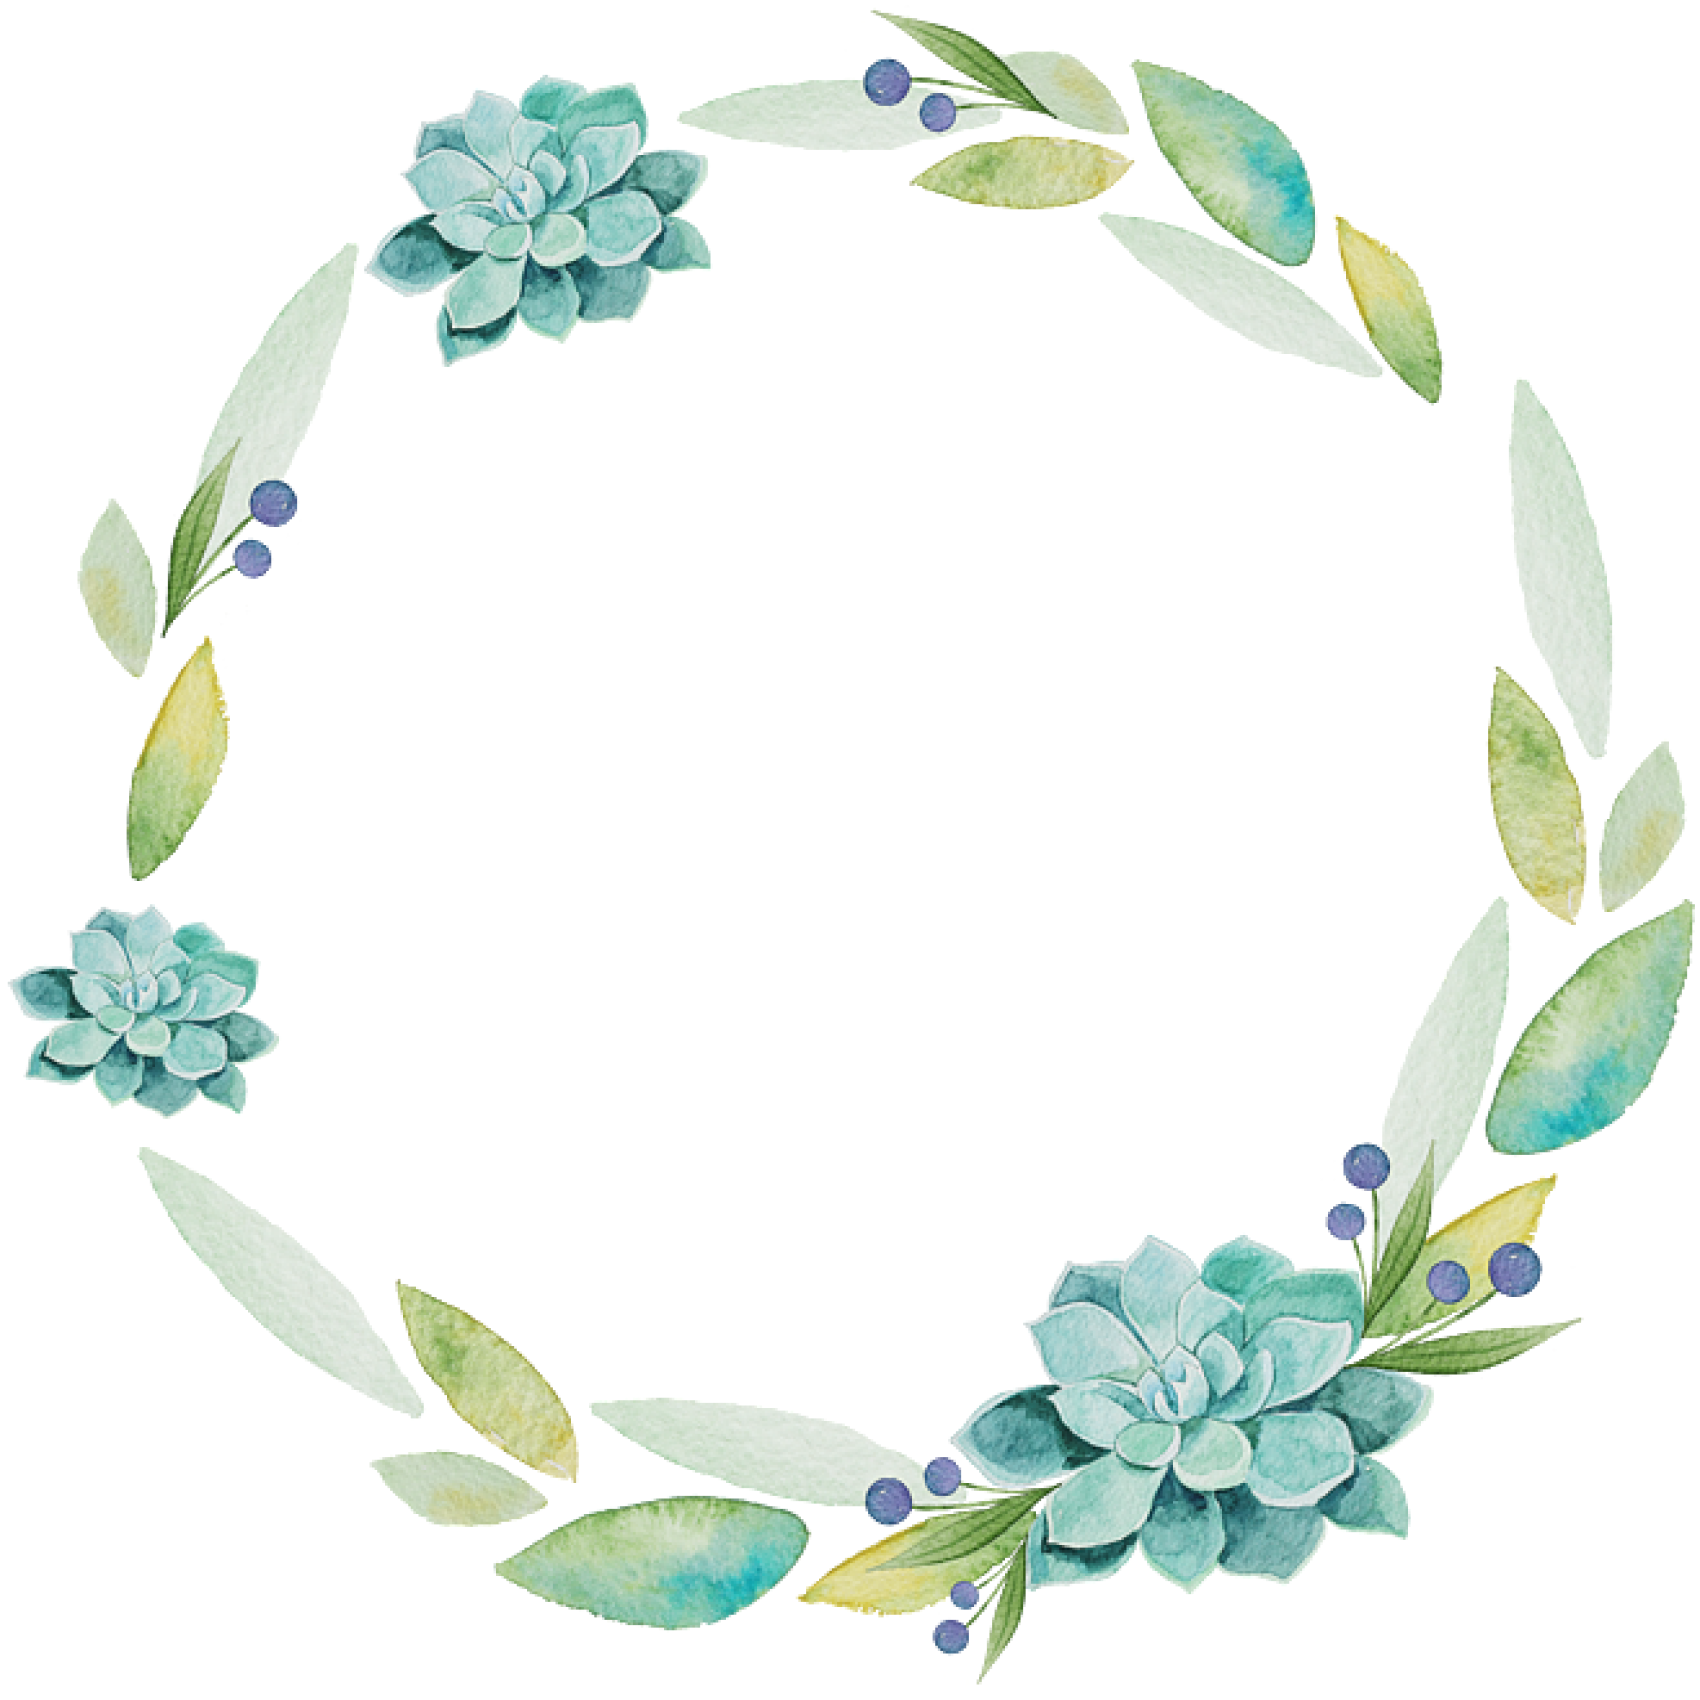
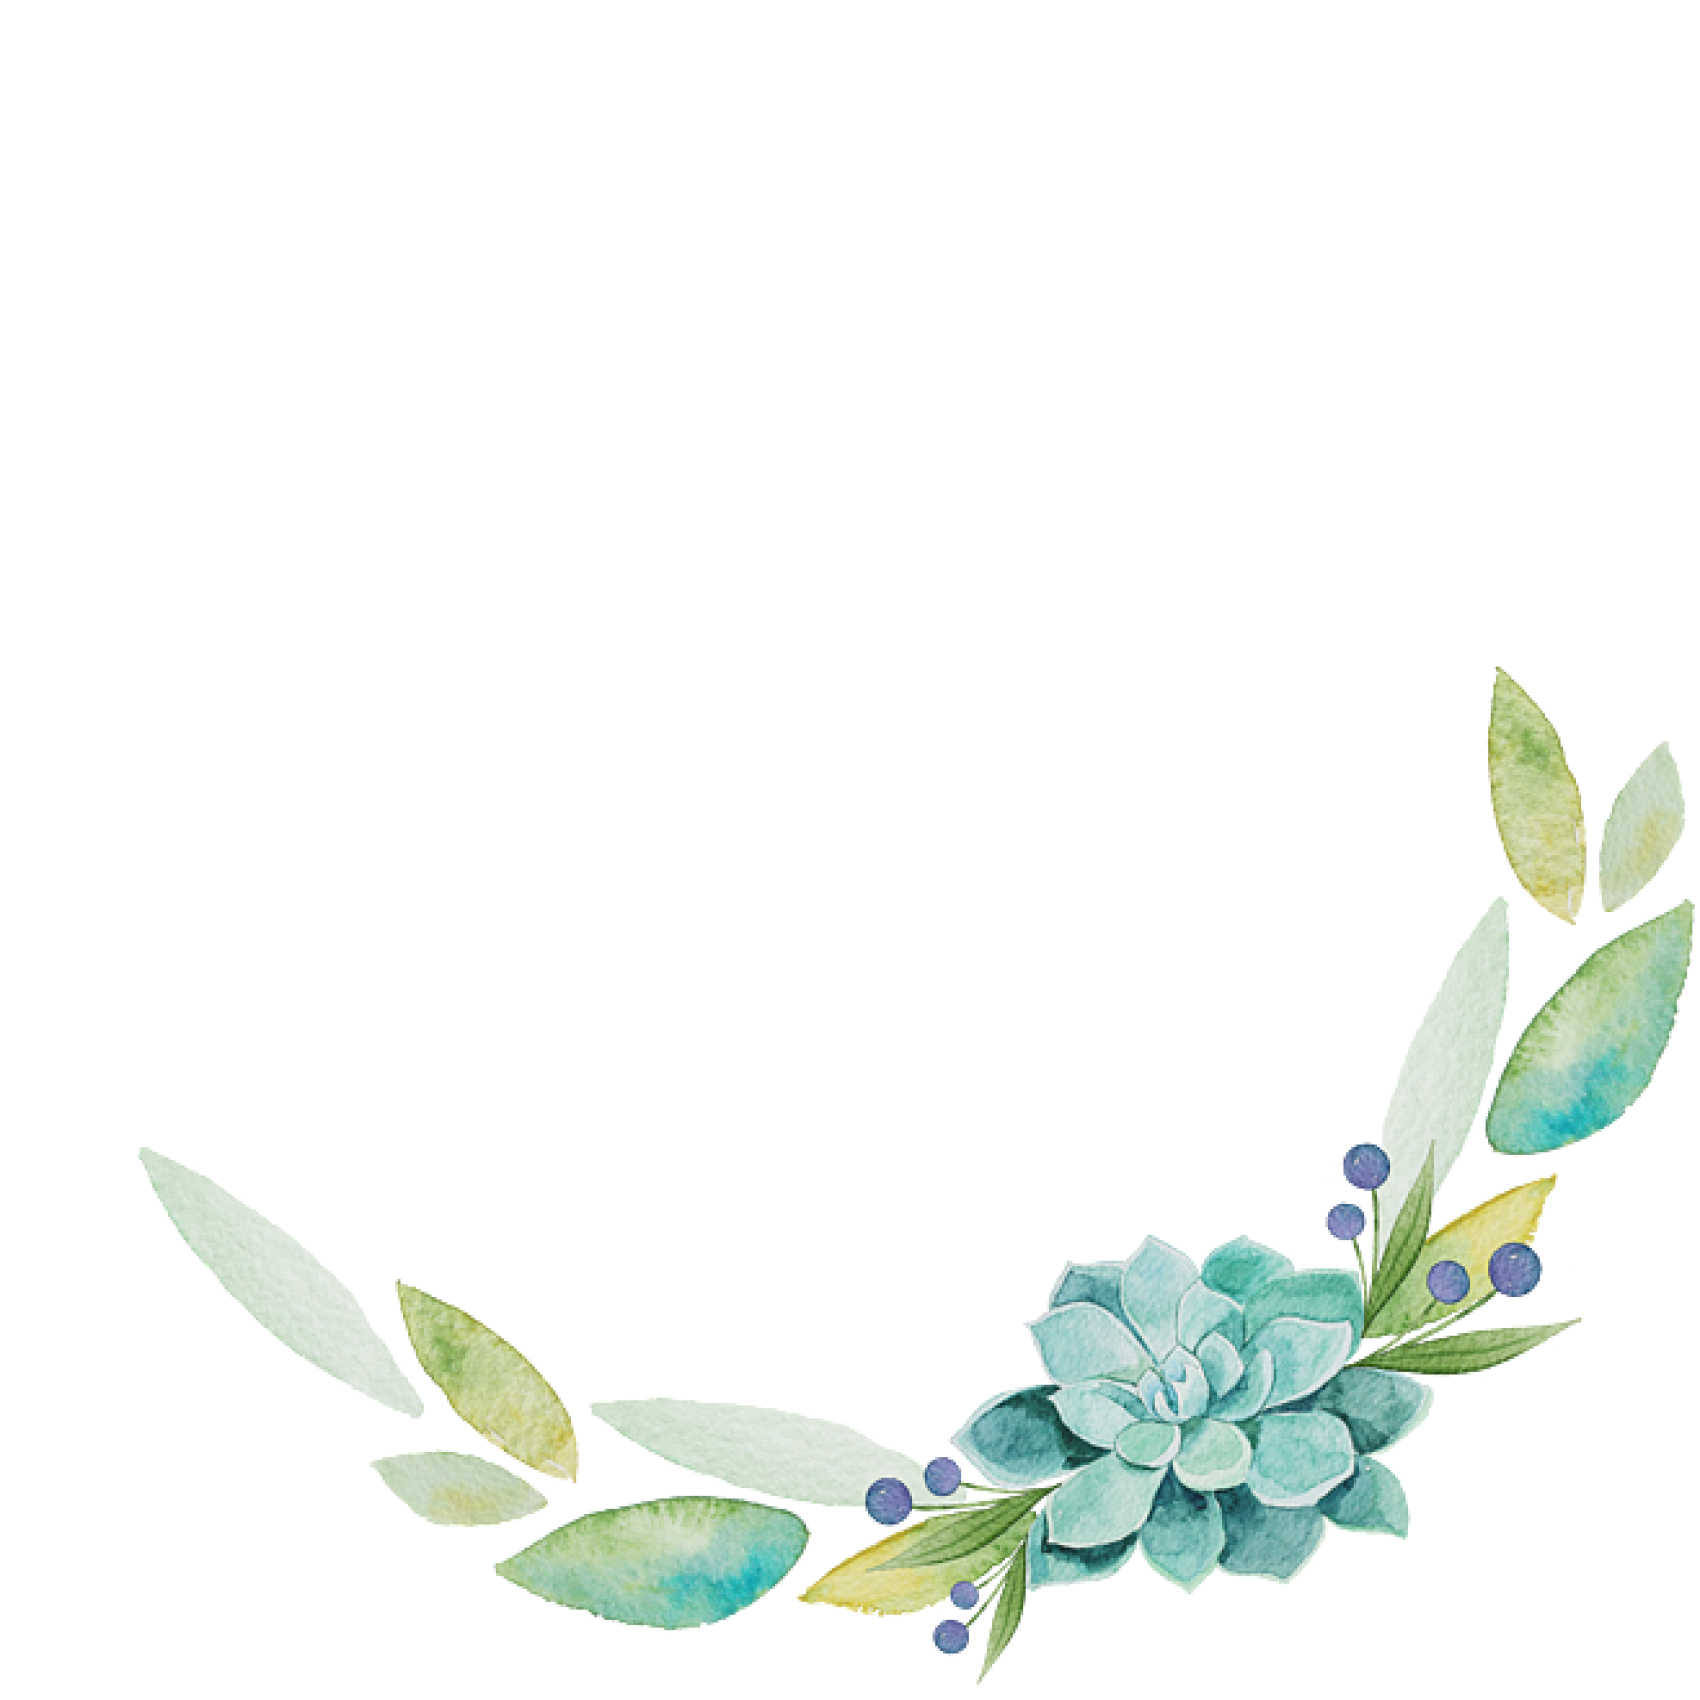
Add max guests param

Changed region(s): [[0.0, 0.0, 0.9665, 0.6547]]

diff --git a/src/components/Tarjeta.jsx b/src/components/Tarjeta.jsx
@@ -5,17 +5,28 @@ export default function Tarjeta({ onClose }) {
     const [cantidad, setCantidad] = useState(1);
     const [nombres, setNombres] = useState([""]);
 
+    const [maxInvitados, setMaxInvitados] = useState(5);
+
     useEffect(() => {
         const params = new URLSearchParams(window.location.search);
+
         const nombreParam = params.get("nombre");
         if (nombreParam) setNombrePrincipal(nombreParam);
+
+        const maxParam = parseInt(params.get("maxinvitados"));
+        if (!isNaN(maxParam) && maxParam > 0) {
+            setMaxInvitados(maxParam);
+            setCantidad(1);
+            setNombres([""]);
+        }
+
         document.body.style.overflow = "hidden";
         return () => {
             document.body.style.overflow = "auto";
         };
     }, []);
 
-    const numero = "573144439593";
+    const numero = "573144450651";
 
     const handleCantidadChange = (e) => {
         const nuevaCantidad = parseInt(e.target.value);
@@ -30,15 +41,9 @@ export default function Tarjeta({ onClose }) {
     };
 
     const generarMensaje = () => {
-        const lista = nombres.filter((n) => n.trim() !== "").join(", ") || "No especificado";
         const texto = `Por parte de la Flia. ${nombrePrincipal || "invitada"}
-
-Confirmo mi asistencia a los 15 años de Susanna ✨
-
-👥 En total, serémos: ${cantidad} personas
-📝 Nombres de los asistentes: ${lista}
-
-¡Gracias por la invitación! 💕`;
+        Confirmo mi asistencia a los 15 años de Susanna ✨
+        👥 En total, serémos: ${cantidad}`;
         return texto.replace(/\n/g, "%0A").replace(/ /g, "%20");
     };
 
@@ -47,9 +52,13 @@ Confirmo mi asistencia a los 15 años de Susanna ✨
             alert("Por favor completa todos los nombres antes de enviar 🙏");
             return;
         }
+
         const url = `https://wa.me/${numero}?text=${generarMensaje()}`;
         window.open(url, "_blank");
-        onClose();
+
+        setTimeout(() => {
+            onClose();
+        }, 0);
     };
 
     return (
@@ -58,7 +67,7 @@ Confirmo mi asistencia a los 15 años de Susanna ✨
 
                 <button
                     onClick={onClose}
-                    className="absolute top-4 right-4 text-gray-400 hover:text-gray-600 text-xl"
+                    className="cursor-pointer absolute top-4 right-4 text-gray-400 hover:text-gray-600 text-xl z-50"
                 >
                     ✕
                 </button>
@@ -68,22 +77,25 @@ Confirmo mi asistencia a los 15 años de Susanna ✨
                         ? `${nombrePrincipal}`
                         : "Invitada"}
                 </h2>
-                <div className="mt-7 text-left">
-                    <label className="block !font-[Amiri] text-[18px]">
-                        Seleccione el número de invitados que asistirán
-                    </label>
-                    <select
-                        value={cantidad}
-                        onChange={handleCantidadChange}
-                        className="relative z-10 !font-[Amiri] text-xl w-full border-2 border-[#DDDDDD] p-2 focus:outline-none"
-                    >
-                        {[1, 2, 3, 4, 5].map((num) => (
-                            <option key={num} value={num}>
-                                {num}
-                            </option>
-                        ))}
-                    </select>
-                </div>
+                {maxInvitados > 1 && (
+                    <div className="mt-7 text-left">
+                        <label className="block !font-[Amiri] text-[18px]">
+                            Seleccione el número de invitados que asistirán
+                        </label>
+
+                        <select
+                            value={cantidad}
+                            onChange={handleCantidadChange}
+                            className="relative z-10 !font-[Amiri] text-xl w-full border-2 border-[#DDDDDD] p-2 focus:outline-none"
+                        >
+                            {Array.from({ length: maxInvitados }, (_, i) => i + 1).map(num => (
+                                <option key={num} value={num}>
+                                    {num}
+                                </option>
+                            ))}
+                        </select>
+                    </div>
+                )}
                 <div className="relative z-10 flex flex-col gap-3 mt-4">
                     {nombres.map((nombre, index) => (
                         <input
@@ -103,8 +115,8 @@ Confirmo mi asistencia a los 15 años de Susanna ✨
                 >
                     Enviar por WhatsApp
                 </button>
-                <img className="absolute opacity-30 -top-40 -left-20 z-1" src="/png/flowers4.png" alt="Flor" />
-                <img className="absolute opacity-30 -rotate-90 -bottom-70 -right-50" src="/png/flowers5.png" alt="Flor" />
+                <img className="absolute opacity-30 -top-40 -left-20 -z-10" src="/png/flowers4.png" alt="Flor" />
+                <img className="absolute opacity-30 -rotate-90 -bottom-70 -right-50 -z-10" src="/png/flowers5.png" alt="Flor" />
             </div>
         </div>
     );

diff --git a/src/style.css b/src/style.css
@@ -64,3 +64,6 @@ h1, h2, h3, p, a {
     0 0.0625em 0 0 #ececec, 0 0.125em 0 0 #e0e0e0, 0 0.125em 0 0 #dedede,
     0 0.2em 0 0 #dcdcdc, 0 0.225em 0 0 #cacaca, 0 0.225em 0.375em 0 #cecece;
 }
+.custom_button:hover {
+  background-color: #f5f5f5;
+}
